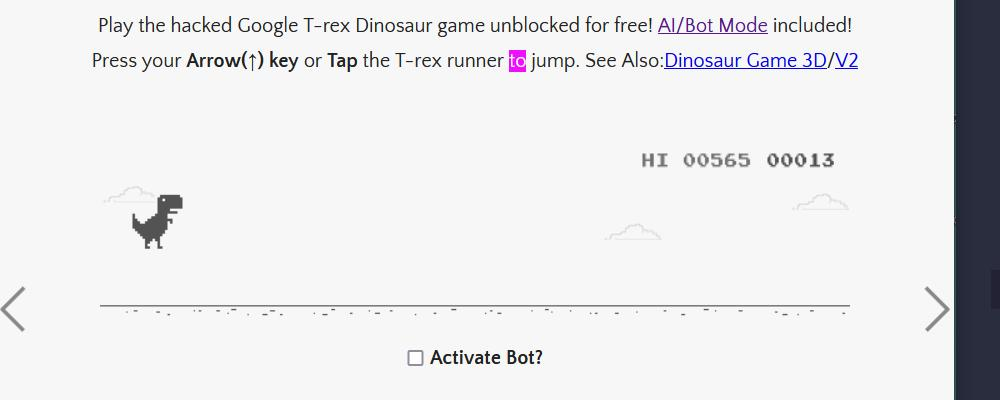
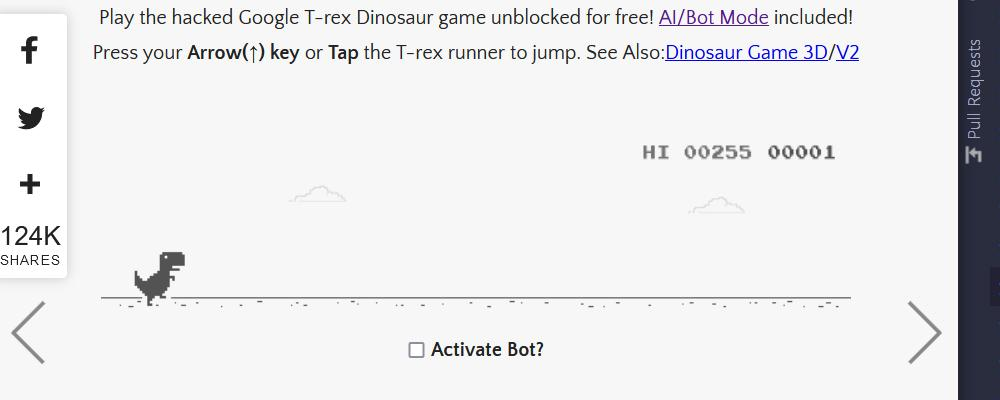
distance between catus

diff --git a/main.py b/main.py
@@ -13,13 +13,13 @@
 # The game window is on the left side, half of the size of the window
 import pyautogui
 # start the game
-pyautogui.click(x=100, y=200)
+pyautogui.click(x=200, y=200)
 pyautogui.press('up')
 
 # region = left, top, width, and height
 pyautogui.screenshot(imageFilename="example.jpg",region=(5,250,1000,400))
-pyautogui.screenshot(imageFilename="test.png",region=(176,478,170,100))
+pyautogui.screenshot(imageFilename="test.png",region=(190,500,180,100))
 while True:
-    if pyautogui.locateOnScreen("img_6.png", confidence=0.4, region=(179,478,160,100), grayscale=True):
+    if pyautogui.locateOnScreen("img_6.png", confidence=0.3, region=(183,489,180,180), grayscale=True):
         pyautogui.press('up')
-
+        print("d")
